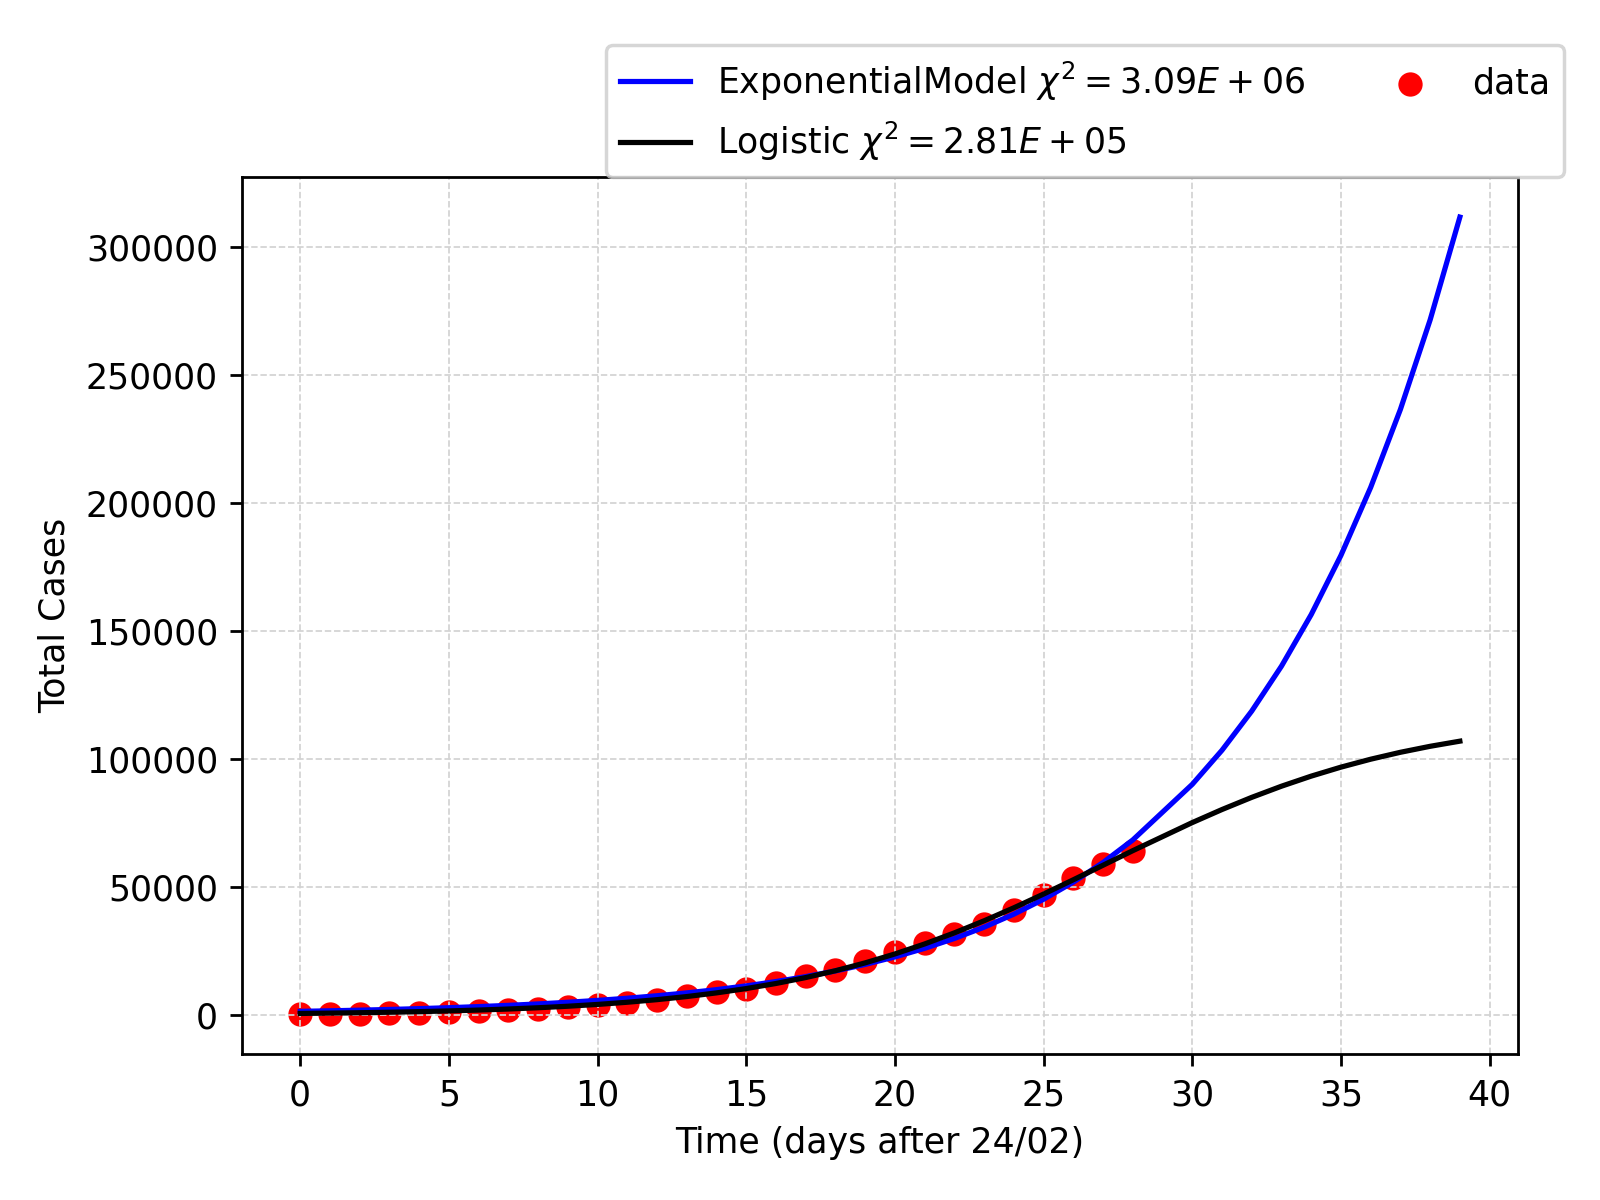
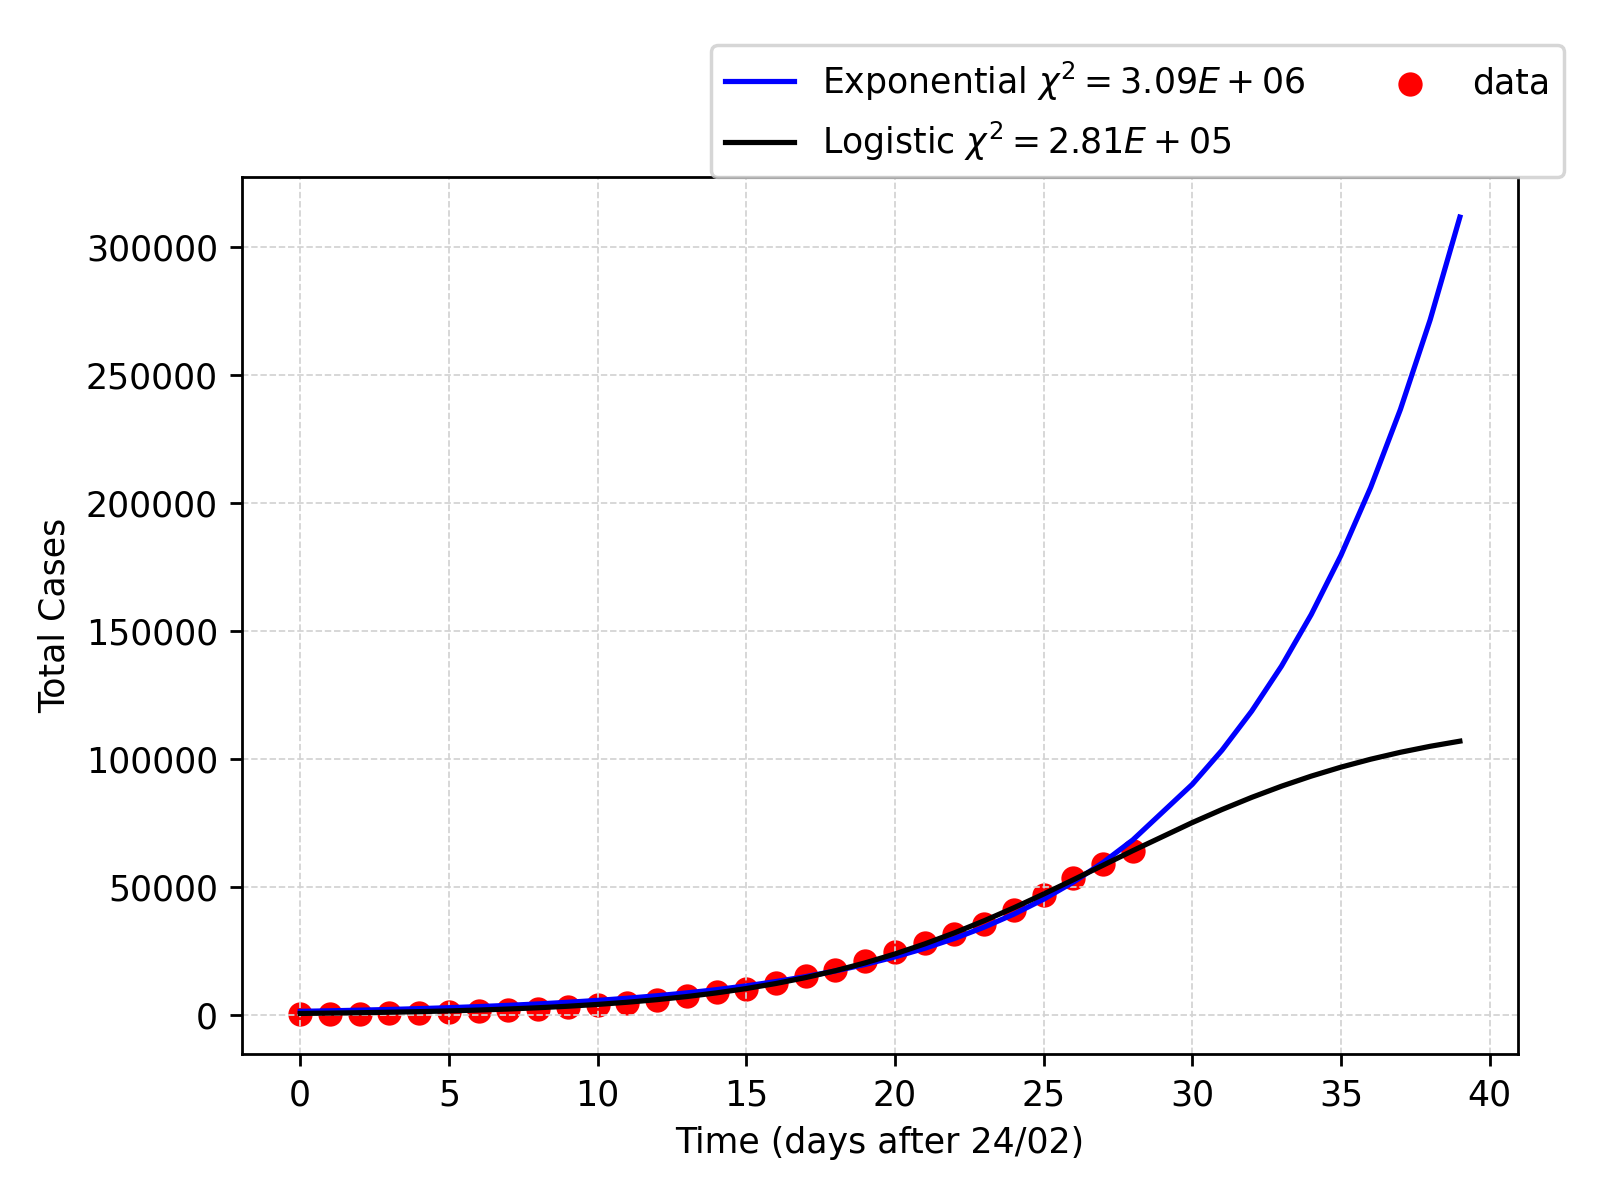
minor

Changed region(s): [[0.375, 0.0308, 0.7812, 0.1542]]

diff --git a/new_fit.py b/new_fit.py
@@ -81,7 +81,7 @@ plt.plot(days,result_logistic.best_fit,color='black')
 plt.xlabel('Time (days after 24/02)')
 plt.ylabel('Total Cases')
 plt.legend((
-"ExponentialModel $\chi^2 = {:.2E}$".format(result_exp.redchi),
+"Exponential $\chi^2 = {:.2E}$".format(result_exp.redchi),
 "Logistic $\chi^2 = {:.2E}$".format(result_logistic.redchi),
 'data'
 ),loc='upper right', bbox_to_anchor=(1.05, 1.17), ncol=2)
@@ -112,7 +112,7 @@ plt.plot(prediction_days, result_logistic.eval(pred_params_logistic, x=predictio
 plt.xlabel('Time (days after 24/02)')
 plt.ylabel('Total Cases')
 plt.legend((
-"ExponentialModel $\chi^2 = {:.2E}$".format(result_exp.redchi),
+"Exponential $\chi^2 = {:.2E}$".format(result_exp.redchi),
 "Logistic $\chi^2 = {:.2E}$".format(result_logistic.redchi),
 'data'
 ),loc='upper right', bbox_to_anchor=(1.05, 1.17), ncol=2)
